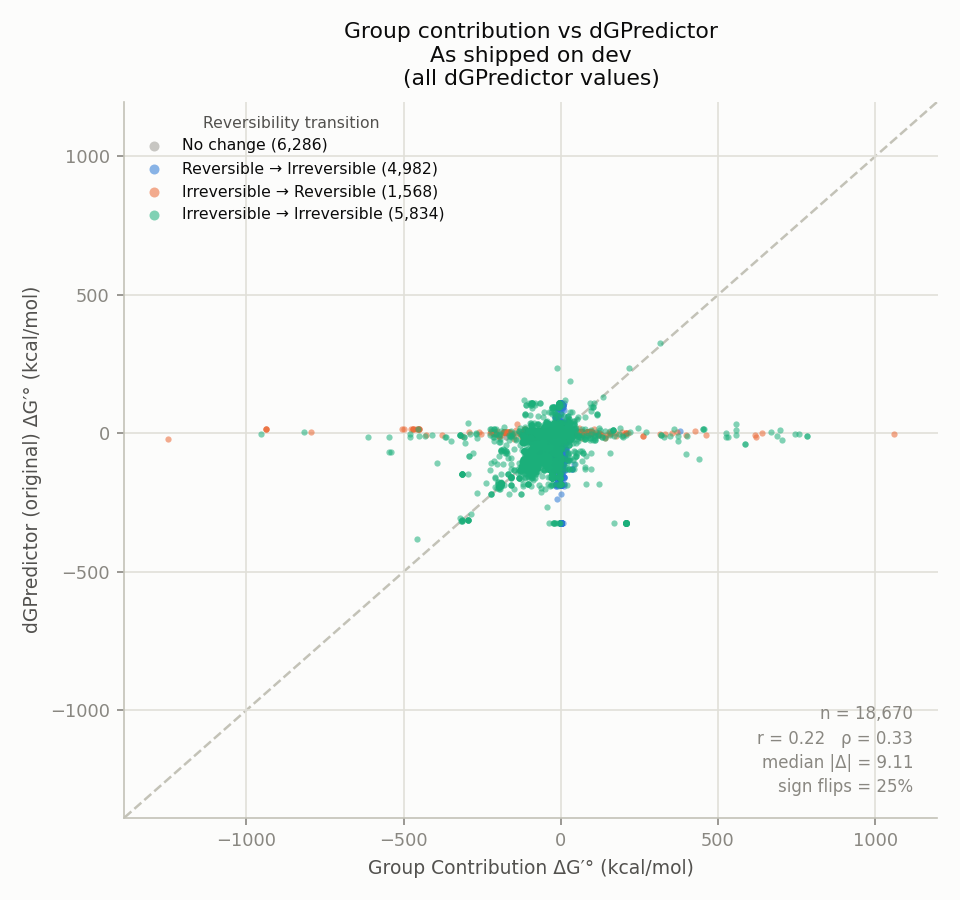
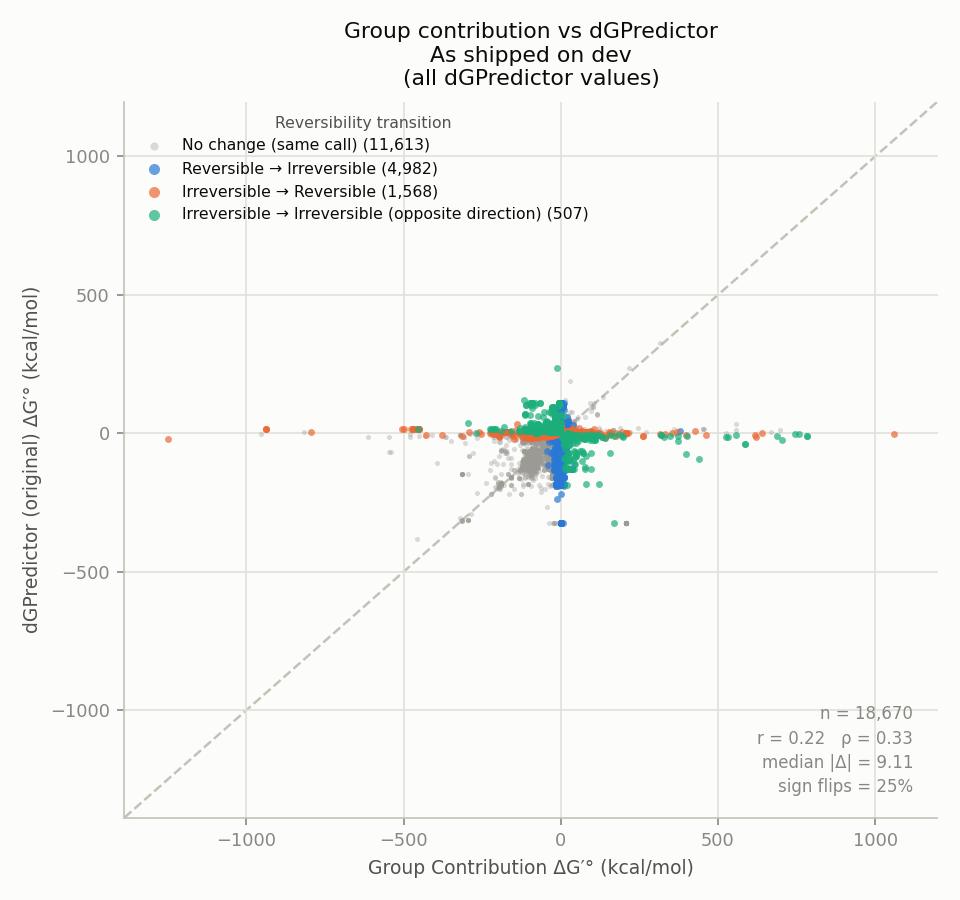
Reserve "Irreversible -> Irreversible" for actual direction reversals
The four-way reversibility-transition colouring inherited from
plot_thermo_source_dg_scatter.py put every both-irreversible pair into
"Irreversible -> Irreversible" regardless of whether the two sources agreed on
the direction. That painted perfect agreement (both ">") the same colour as a
complete reversal (">" vs "<"), and made the category the largest in every
panel -- 30-44% of points -- while burying the few hundred that matter.

Redefined:

  No change                    identical call: both "=", OR the same "<" / ">"
  Reversible -> Irreversible   "=" then ">" / "<"
  Irreversible -> Reversible   ">" / "<" then "="
  Irreversible -> Irreversible ">" vs "<" only -- a genuine direction conflict

Gray ("No change") is now the bulk of each panel, so it is drawn smaller and
more transparent and the three real transitions are given a higher zorder. The
legend states the reserved category's definition, which is not guessable from
its name.

This makes the direction-reversal count directly readable, and it is arguably a
better measure of the defect's cost than the correlation, because a reversal is
what actually changes an FBA model:

                              as shipped      fixed   random control
  Group contribution vs dGP   507 (2.7%)  158 (1.7%)      247 (2.7%)
  eQuilibrator vs dGP         542 (3.9%)  176 (2.2%)      320 (4.1%)
  dGP vs dGPredictor-MS       397 (1.9%)   70 (0.7%)      189 (1.9%)
[…]

diff --git a/scripts/plot_kegg_fix_impact.py b/scripts/plot_kegg_fix_impact.py
@@ -38,8 +38,20 @@ PANELS
 
 each under three conditions: as-shipped / KEGG-fixed / random control.
 
-Point colour is the reversibility transition between the two sources, identical
-in definition and palette to plot_thermo_source_dg_scatter.py.
+Point colour is the reversibility transition between the two sources. Each
+source's own ΔG′° goes through the unmodified ModelSEED cascade and the two
+operators are compared:
+
+    No change                    identical call -- both "=", or the SAME
+                                 irreversible direction (both ">" or both "<")
+    Reversible -> Irreversible   "=" then ">" or "<"
+    Irreversible -> Reversible   ">" or "<" then "="
+    Irreversible -> Irreversible ">" vs "<" -- both irreversible, in OPPOSITE
+                                 directions. The only genuine direction conflict.
+
+Palette is the one from plot_thermo_source_dg_scatter.py, but that script lumps
+every both-irreversible pair into the last category regardless of direction; here
+the category is reserved for actual reversals.
 
 Data: ModelSEED dev @ 49563c6f (/scratch/ctaylor/tmp/devsnap2) -- the live dev
 branch; cascade code from the working ModelSEEDDatabase checkout.
@@ -106,6 +118,14 @@ CATEGORY_COLOR = {
     "Irreversible → Reversible": "#eb6834",
     "Irreversible → Irreversible": "#1baf7a",
 }
+# Displayed legend text. The category NAME is unchanged; the parenthetical
+# states the definition, which is not guessable from the name alone.
+CATEGORY_LEGEND = {
+    "No change": "No change (same call)",
+    "Reversible → Irreversible": "Reversible → Irreversible",
+    "Irreversible → Reversible": "Irreversible → Reversible",
+    "Irreversible → Irreversible": "Irreversible → Irreversible (opposite direction)",
+}
 INK_PRIMARY = "#0b0b0b"
 INK_SECONDARY = "#52514e"
 INK_MUTED = "#898781"
@@ -116,14 +136,21 @@ SURFACE = "#fcfcfb"
 
 
 def classify(a: str, b: str) -> str:
-    ra, rb = a == "=", b == "="
-    if ra and rb:
-        return "No change"
-    if ra and not rb:
+    """Reversibility transition between two sources' own cascade calls.
+
+    "Irreversible → Irreversible" is reserved for the case that actually matters:
+    both sources call the reaction irreversible but in OPPOSITE directions
+    ('>' vs '<'). Two sources that agree on the same irreversible direction have
+    not disagreed about anything, so they are "No change" alongside the pairs
+    that both call it reversible.
+    """
+    if a == b:
+        return "No change"                      # both '=', or the same '>' / '<'
+    if a == "=":
         return "Reversible → Irreversible"
-    if not ra and rb:
+    if b == "=":
         return "Irreversible → Reversible"
-    return "Irreversible → Irreversible"
+    return "Irreversible → Irreversible"        # '>' vs '<' — direction reversed
 
 
 def load_table() -> pd.DataFrame:
@@ -171,12 +198,17 @@ def metrics(sub: pd.DataFrame, a: str, b: str) -> dict:
     y = sub[f"dg_{b}"].to_numpy(float)
     if len(x) < 3:
         return {"n": len(x)}
+    cats = Counter(classify(p, q) for p, q in zip(sub[f"op_{a}"], sub[f"op_{b}"]))
+    n = len(x)
     return {
-        "n": int(len(x)),
+        "n": int(n),
         "pearson_r": float(np.corrcoef(x, y)[0, 1]),
         "spearman_rho": float(pd.Series(x).corr(pd.Series(y), method="spearman")),
         "median_abs_delta": float(np.median(np.abs(y - x))),
         "frac_sign_flip": float(np.mean(np.sign(x) * np.sign(y) < 0)),
+        **{f"n_{c}": int(cats[c]) for c in CATEGORY_ORDER},
+        "frac_direction_reversed":
+            float(cats["Irreversible → Irreversible"] / n),
     }
 
 
@@ -201,9 +233,11 @@ def draw(ax, sub, a, b, title, lims, *, legend=False, extra="") -> dict:
     for cat in CATEGORY_ORDER:
         idx = [i for i, c in enumerate(cats) if c == cat]
         if idx:
-            ax.scatter(x[idx], y[idx], s=9, linewidths=0, alpha=0.55,
-                       color=CATEGORY_COLOR[cat], zorder=2,
-                       label=f"{cat} ({counts[cat]:,})")
+            bulk = cat == "No change"
+            ax.scatter(x[idx], y[idx], s=6 if bulk else 11, linewidths=0,
+                       alpha=0.35 if bulk else 0.7,
+                       color=CATEGORY_COLOR[cat], zorder=2 if bulk else 3,
+                       label=f"{CATEGORY_LEGEND[cat]} ({counts[cat]:,})")
     ax.set_xlim(*lims)
     ax.set_ylim(*lims)
     ax.set_xlabel(SOURCES[a][1], color=INK_SECONDARY, fontsize=9)

diff --git a/scripts/plot_dgpredictor_base_vs_finetuned.py b/scripts/plot_dgpredictor_base_vs_finetuned.py
@@ -14,12 +14,23 @@ so the comparison needs no unit conversion, no re-prediction, and no ID
 crosswalk: it is the same reaction, the same kcal/mol, the same stored-operator
 convention, differing only in which dGPredictor produced the number.
 
-Point colour is the reversibility TRANSITION between the two, defined exactly as
-in plot_thermo_source_dg_scatter.py: each source's own ΔG′° is pushed through
-the unmodified ModelSEED cascade (``reversibility_heuristics.DEFAULT_HEURISTICS``
-via ``per_source_energy``) and the resulting call is collapsed to reversible
-("=") vs irreversible (">"/"<"). "No change" is neutral gray rather than a 4th
-categorical hue -- same reasoning, same palette.
+Point colour is the reversibility TRANSITION between the two. Each variant's own
+ΔG′° is pushed through the unmodified ModelSEED cascade
+(``reversibility_heuristics.DEFAULT_HEURISTICS`` via ``per_source_energy``), and
+the two resulting operators are compared:
+
+    No change                    identical call -- both "=", or the SAME
+                                 irreversible direction (both ">" or both "<")
+    Reversible -> Irreversible   "=" then ">" or "<"
+    Irreversible -> Reversible   ">" or "<" then "="
+    Irreversible -> Irreversible ">" vs "<" -- both irreversible, in OPPOSITE
+                                 directions. The only genuine direction conflict.
+
+This differs from plot_thermo_source_dg_scatter.py, which lumps every
+both-irreversible pair into the last category regardless of whether the
+directions agree, and so colours perfect agreement identically to a reversal.
+"No change" is neutral gray rather than a 4th categorical hue -- per the dataviz
+skill, only 3 categorical hues stay CVD-safe on an all-pairs scatter.
 
 THREE FIGURES
 -------------
@@ -100,6 +111,14 @@ CATEGORY_COLOR = {
     "Irreversible → Reversible": "#eb6834",
     "Irreversible → Irreversible": "#1baf7a",
 }
+# Displayed legend text. The category NAME is unchanged; the parenthetical
+# states the definition, which is not guessable from the name alone.
+CATEGORY_LEGEND = {
+    "No change": "No change (same call)",
+    "Reversible → Irreversible": "Reversible → Irreversible",
+    "Irreversible → Reversible": "Irreversible → Reversible",
+    "Irreversible → Irreversible": "Irreversible → Irreversible (opposite direction)",
+}
 INK_PRIMARY = "#0b0b0b"
 INK_SECONDARY = "#52514e"
 INK_MUTED = "#898781"
@@ -117,14 +136,20 @@ ZOOM_LIMIT = 250.0
 
 
 def classify(op_a: str, op_b: str) -> str:
-    rev_a, rev_b = op_a == "=", op_b == "="
-    if rev_a and rev_b:
-        return "No change"
-    if rev_a and not rev_b:
+    """Reversibility transition between the two variants' own cascade calls.
+
+    "Irreversible → Irreversible" is reserved for the case that actually matters:
+    both call the reaction irreversible but in OPPOSITE directions ('>' vs '<').
+    Two sources agreeing on the same irreversible direction have not disagreed
+    about anything, so they are "No change" alongside the both-reversible pairs.
+    """
+    if op_a == op_b:
+        return "No change"                      # both '=', or the same '>' / '<'
+    if op_a == "=":
         return "Reversible → Irreversible"
-    if not rev_a and rev_b:
+    if op_b == "=":
         return "Irreversible → Reversible"
-    return "Irreversible → Irreversible"
+    return "Irreversible → Irreversible"        # '>' vs '<' — direction reversed
 
 
 def load_table() -> pd.DataFrame:
@@ -193,8 +218,11 @@ def draw_panel(ax, sub: pd.DataFrame, title: str, *, legend: bool = True,
         idx = [i for i, c in enumerate(cats) if c == cat]
         if not idx:
             continue
-        ax.scatter(xs[idx], ys[idx], s=14, linewidths=0, color=CATEGORY_COLOR[cat],
-                   alpha=0.65, zorder=2, label=f"{cat} ({counts[cat]:,})")
+        bulk = cat == "No change"
+        ax.scatter(xs[idx], ys[idx], s=9 if bulk else 16, linewidths=0,
+                   color=CATEGORY_COLOR[cat], alpha=0.35 if bulk else 0.7,
+                   zorder=2 if bulk else 3,
+                   label=f"{CATEGORY_LEGEND[cat]} ({counts[cat]:,})")
     ax.set_xlim(*lims)
     ax.set_ylim(*lims)
     ax.set_xlabel(BASE_AXIS, color=INK_SECONDARY, fontsize=10)

diff --git a/reports/thermoComparison/figures/kegg_fix_impact/README.md b/reports/thermoComparison/figures/kegg_fix_impact/README.md
@@ -35,6 +35,23 @@ third way: a **random** subset of the full set, of exactly the same size as the
 fixed set, repeated 25 times with a fixed seed. If the improvement were merely
 "fewer points", the control would move as much as the fix does.
 
+## Point colours
+
+Each source's own ΔG′° is pushed through the unmodified ModelSEED cascade and
+the two resulting operators are compared:
+
+| category | meaning |
+|---|---|
+| **No change** (gray) | identical call — both `=`, **or the same irreversible direction** (both `>` or both `<`) |
+| **Reversible → Irreversible** (blue) | `=` then `>`/`<` |
+| **Irreversible → Reversible** (orange) | `>`/`<` then `=` |
+| **Irreversible → Irreversible** (green) | `>` vs `<` — both irreversible, in **opposite** directions. The only genuine direction conflict. |
+
+This is deliberately stricter than `plot_thermo_source_dg_scatter.py`, which
+puts every both-irreversible pair in the last category regardless of direction,
+and therefore colours perfect agreement identically to a reversal. Gray is drawn
+smaller and more transparent because it is now the bulk of every panel.
+
 ## Results
 
 | pair | as shipped | KEGG fixed | random control (mean ± SD) |
@@ -50,6 +67,24 @@ against Group Contribution falls 9.11 → 5.69 kcal/mol, against eQuilibrator
 
 The control panels are visually indistinguishable from the as-shipped panels;
 only the fixed panels collapse onto the diagonal.
+
+## Direction reversals — arguably the more important number
+
+A ΔG disagreement only changes an FBA model when it flips the reaction's
+direction. Counting only the green category (both sources irreversible, opposite
+directions):
+
+| pair | as shipped | KEGG fixed | random control |
+|---|---:|---:|---:|
+| Group Contribution vs dGPredictor | 507 (2.7%) | **158 (1.7%)** | 247 (2.7%) |
+| eQuilibrator vs dGPredictor | 542 (3.9%) | **176 (2.2%)** | 320 (4.1%) |
+| dGPredictor vs dGPredictor-ModelSEED | 397 (1.9%) | **70 (0.7%)** | 189 (1.9%) |
+
+The fix roughly halves the reversal *rate* in every pair; the random control
+leaves it unchanged. For reference, pairs that do not involve the original
+predictor were always low — Group Contribution vs eQuilibrator 1.5%,
+eQuilibrator vs the retrain 0.5% — so the excess is specific to the mis-mapped
+values.
 
 ## Files
 
